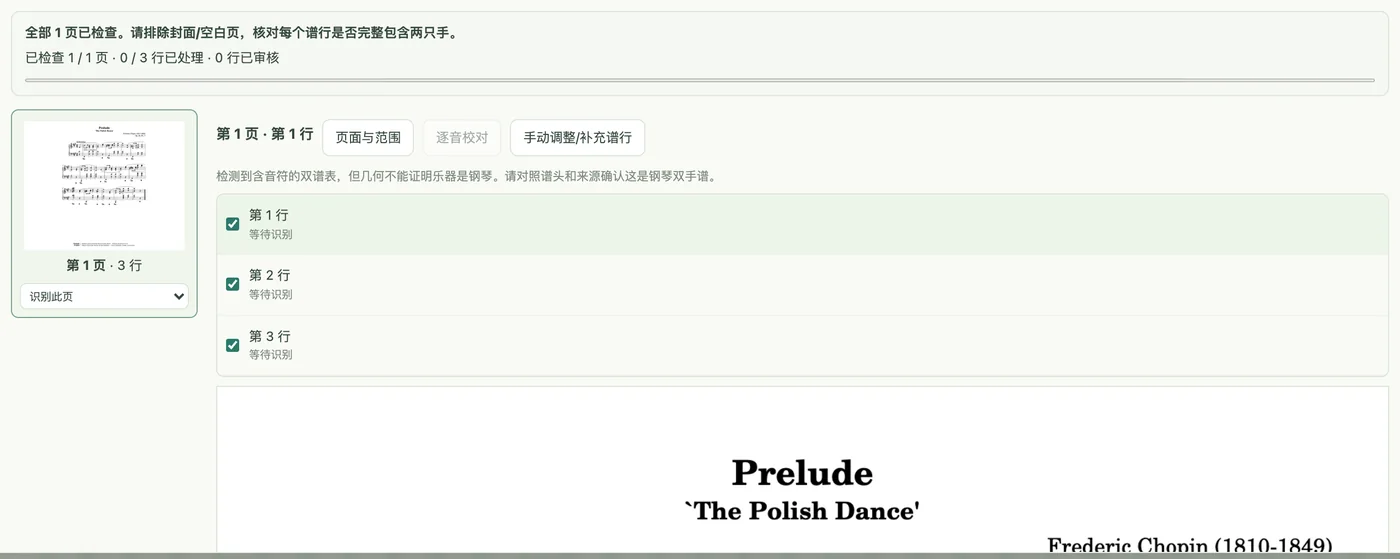
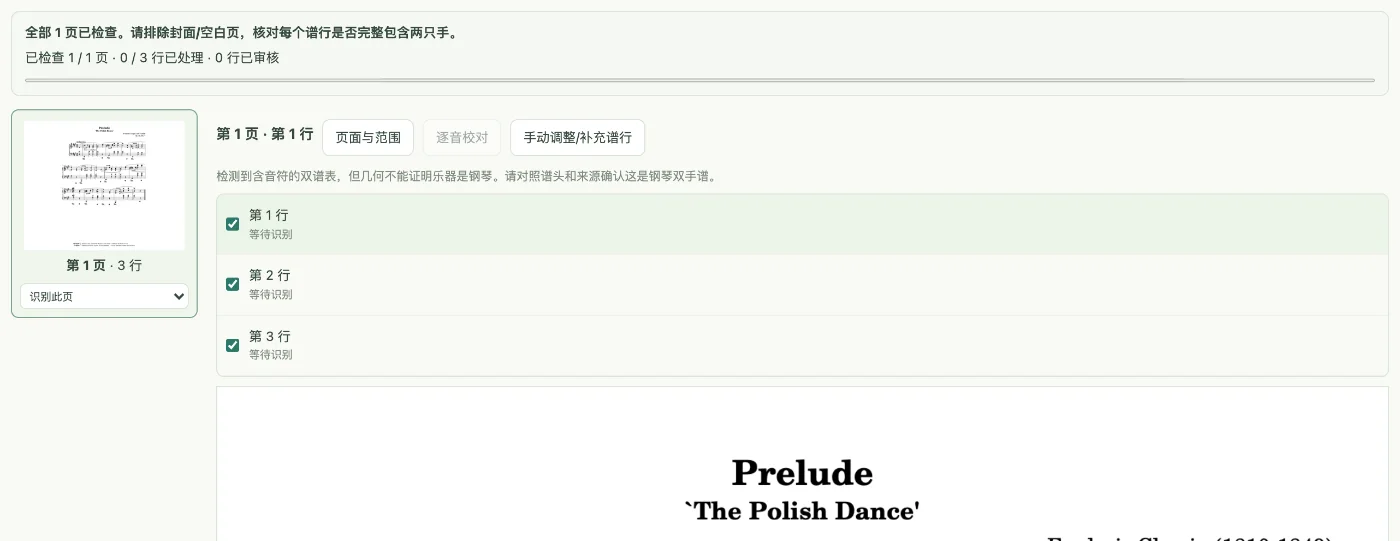
fix: let the site screenshot script run on Node 21
Node 21 only has WebSocket behind --experimental-websocket, so the script
now reruns itself with that flag instead of failing. Also recaptures the
import preview with a tighter crop that leaves out the dialog's edge.

diff --git a/site/index.html b/site/index.html
@@ -92,7 +92,7 @@
               <img
                 src="assets/shots/scan-rows.webp"
                 width="1400"
-                height="559"
+                height="541"
                 loading="lazy"
                 alt="导入肖邦前奏曲 PDF 后，琴伴找到第 1 页的 3 行谱，等待识别"
               />

diff --git a/site/README.md b/site/README.md
@@ -18,10 +18,10 @@ python3 -m http.server 8817 --directory site
 
 ## 截图
 
-`npm run site:shots`（`scripts/capture-site-shots.mjs`，需 Node ≥ 22 和本机 Chrome）用无界面 Chrome 和一次性配置目录重新截取 `assets/shots/`：
+`npm run site:shots`（`scripts/capture-site-shots.mjs`，需本机 Chrome 和 Node ≥ 21）用无界面 Chrome 和一次性配置目录重新截取 `assets/shots/`：
 
 - 公开网页版：《致爱丽丝》播放中的五线谱、简谱、导出窗口和手机视图；识谱得到的 BWV 846 叠在原谱上播放。
-- 本机版（`QINBAN_URL`，默认 `http://127.0.0.1:8792/`）：导入肖邦 Op.28 No.7 PDF 后的谱行预览。只打开预览，不开始识谱，不会写入 `.local/`；本机服务没开时跳过，保留已有截图。
+- 本机版（`QINBAN_URL`，默认 `http://127.0.0.1:8792/`）：导入肖邦 Op.28 No.7 PDF 后的谱行预览。只打开预览，不开始识谱，不会写入 `.local/`；本机服务没开时跳过，保留已有截图；先用 `启动琴伴.command` 或 `npm start` 打开本机版再截。
 
 可以只截某一部分：`node scripts/capture-site-shots.mjs desktop source phone local`。
 
